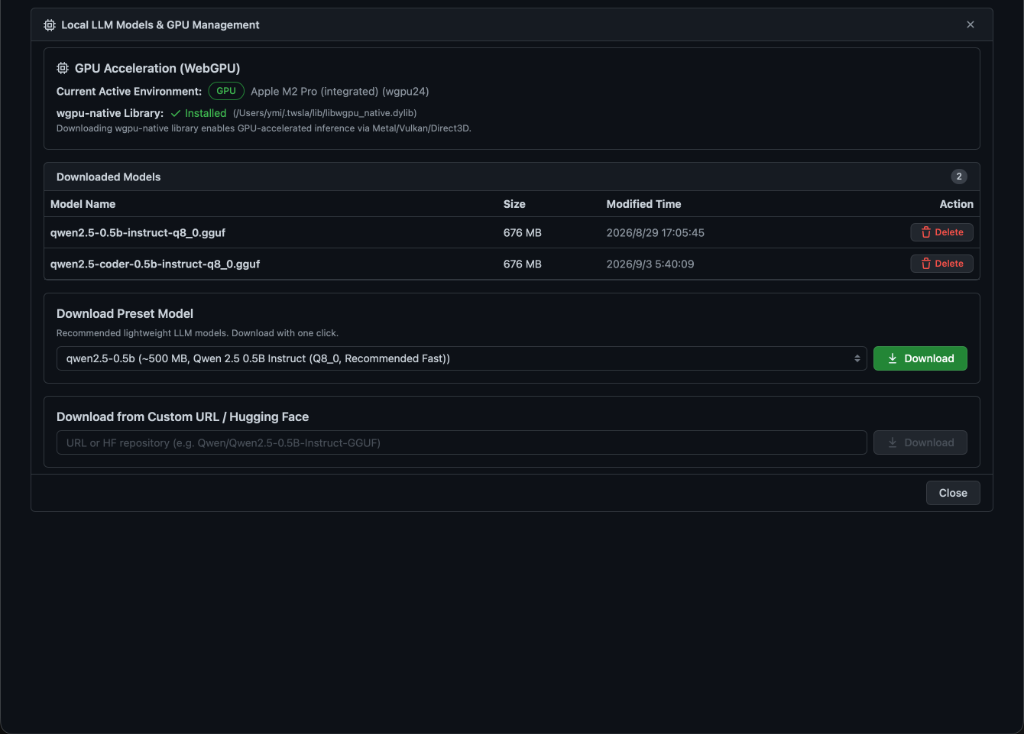
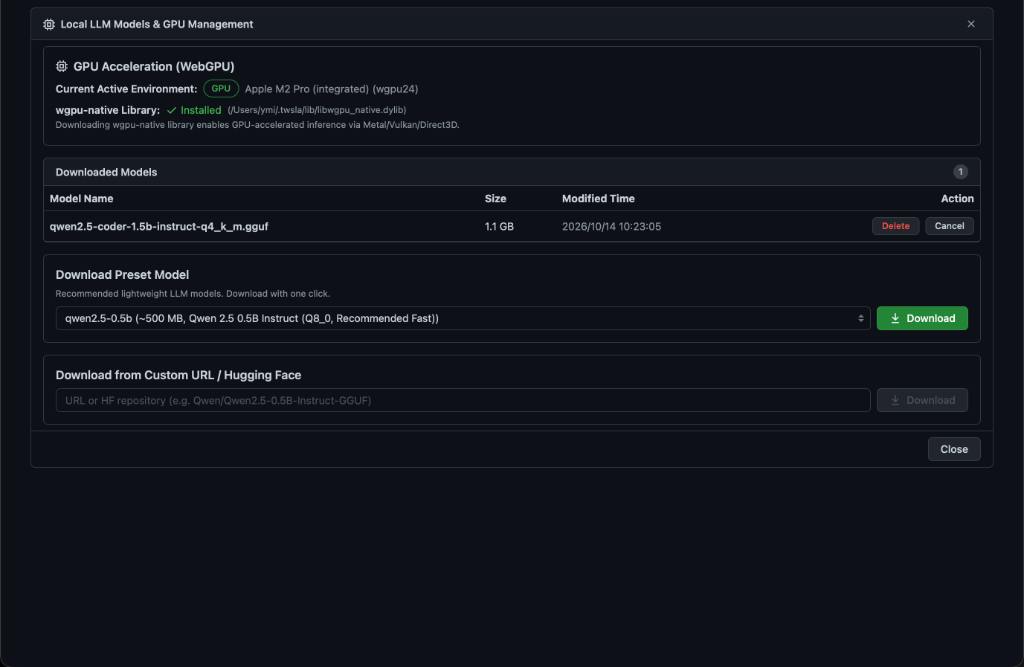
chore(release): bump version to v2.3.0 and update documentation

diff --git a/docs/manual.md b/docs/manual.md
@@ -864,32 +864,39 @@ Webアクセスログなどのレスポンス時間、処理遅延（Delta）、
 
 ログから情報を抽出するために使ったGrokの設定などを定義ファイルに保存するためのものです。編集して他の分析でも使えるようにするための機能です。
 
-### AI (LLM) 連携設定 (v2.1.0 強化)
+### AI (LLM) 連携設定 (v2.1.0 強化、v2.3.0 改善)
 
 ログの解説・要約や問い合わせ（Ask AI）を行うためのLLM連携設定を行います。ログ分析設定画面の右下に配置されています。
 
 - **プロバイダー**:
-  - **tensai（内蔵ローカルLLM）**: 外部サーバーやAPIキーを一切必要とせず、お使いのPC内部で完全に動作する組み込みLLMです。ログデータが外部に送信されないため、機密性の高いログでも安心して分析できます。
+  - **tensai（内蔵ローカルLLM）**: 外部サーバーやAPIキーを一切必要とせず、お使いのPC内部で完全に動作する組み込みLLMです。ログデータが外部に送信されないため、機密性の高いログでも安心して分析できます。(v2.3.0でtensai v0.0.35へ更新され、GGUFトークナイザーの型処理修正により推論がより安定しました)
   - **外部LLM（Ollama, Gemini, OpenAI, Anthropic）**: クラウドアカウントやローカルのOllamaサーバーと連携します。APIキーやモデル名、接続先URLを設定して利用できます。
 - **モデルの選択**:
   内蔵ローカルLLMの場合は、ダウンロード済みのGGUFモデル（例: `qwen2.5-coder-0.5b-instruct-q8_0.gguf` など）をドロップダウンから選択できます。
-- **ハードウェア加速（GPU）**:
-  検出されたGPU環境（Apple MシリーズのMetal、DirectX、Vulkan等のwgpu）がバッジ表示され、高速なハードウェアアクセラレーション推論が行われます。
+- **ハードウェア加速（GPU / SIMD） (v2.3.0 改善)**:
+  検出されたGPU環境（Apple MシリーズのMetal、DirectX、Vulkan等のwgpu）に加えて、arm64環境におけるNEON SIMD最適化の検出状態がバッジ表示され、高速なハードウェアアクセラレーション推論が行われます。
 - **＜モデル管理 / GPU設定＞ボタン**:
   クリックするとモデル管理画面が開き、推奨モデルのワンクリックダウンロードやGPU設定の確認ができます。
 
 ![](./images/ja/ai_setting.png)
 
-#### ローカルLLMモデル & GPU管理画面 (v2.1.0)
+#### ローカルLLMモデル & GPU管理画面 (v2.1.0 追加、v2.3.0 強化)
 
 「モデル管理 / GPU設定」ボタンをクリックすると表示される管理ダイアログです。
 
-- **GPUアクセラレーション (WebGPU)**:
-  現在アクティブなGPU環境（Metal / Vulkan / Direct3D / wgpu）や、`wgpu-native` ライブラリのインストール状態を確認できます。
-- **ダウンロード済みモデル一覧**:
-  PC内に保存されているGGUFモデルのファイル名、ファイルサイズ、更新日時の一覧と削除操作が行えます。
-- **プリセットモデルのワンクリックダウンロード**:
-  TWLogAIANで動作確認済みの推奨軽量LLM（Qwen 2.5 0.5B Instruct等）を選択し、ワンクリックでダウンロードできます。
+- **GPUアクセラレーション (WebGPU / SIMD)**:
+  現在アクティブなGPU環境（Metal / Vulkan / Direct3D / wgpu）や、`wgpu-native` ライブラリのインストール状態、arm64 NEON環境の検出状態を確認できます。
+- **ダウンロード済みモデル一覧 & インライン削除 (v2.3.0 改善)**:
+  PC内に保存されているGGUFモデルのファイル名、ファイルサイズ、更新日時の一覧を確認できます。削除ボタンを押すと「削除」「キャンセル」のインライン確認UIが表示され、不要になったモデルや関連キャッシュを安全かつスムーズに削除できます。
+- **プリセットモデルのワンクリックダウンロード (v2.3.0 大幅拡充)**:
+  TWLogAIANで動作確認済みの推奨LLMを目的やPCスペックに合わせてワンクリックでダウンロードできます。
+  - **Qwen 2.5 / Qwen 2.5 Coder** (0.5B / 1.5B / 3B): 高速・軽量かつコード/ログ解析に優れた定番モデル
+  - **Qwen 3** (4B): 思考プロセス (`<think>`) を備えた推論強化モデル
+  - **LLM-jp 3** (1.8B): 日本語に特化した国産モデル
+  - **Gemma シリーズ** (Gemma 2 2B / Gemma 3 1B / Gemma 4 E2B): Google発の高性能・軽量モデル
+  - **SmolLM シリーズ** (SmolLM2 135M / 360M / 1.7B、SmolLM3 3B): 超軽量から推論モデルまで揃った省リソースモデル
+  - **Phi 3.5 Mini** (3.8B): Microsoftの論理推論に優れた小型モデル
+  - その他 Llama 3.2 1B、DeepSeek R1 Distill Qwen 1.5B など
 - **カスタムURL / Hugging Faceからのダウンロード**:
   Hugging Faceのリポジトリ名や任意のGGUFモデルURLを直接指定してダウンロードすることも可能です。
 

diff --git a/docs/manual_en.md b/docs/manual_en.md
@@ -827,28 +827,35 @@ All of the reports described above can be exported. Access the export menu in th
 Allows you to save Grok patterns and other field extraction settings to definition files, which can then be reused in other analyses.
 
 
-## AI Integration Settings (Enhanced in v2.1.0)
+## AI Integration Settings (Enhanced in v2.1.0, Improved in v2.3.0)
 
 Configure Large Language Models (LLMs) to power log explanations, summaries, and Ask AI queries.
 
-- **Embedded Local LLM (tensai) (v2.1.0)**:
-  An embedded LLM running entirely locally on your computer with zero external server dependencies or API keys. Ensures sensitive log data never leaves your machine.
-  Supports GPU hardware acceleration (Metal / DirectX / Vulkan / CUDA) for high-performance inference. Recommended GGUF models can be downloaded and managed directly via the built-in model manager.
+- **Embedded Local LLM (tensai) (v2.1.0, v2.3.0 Improved)**:
+  An embedded LLM running entirely locally on your computer with zero external server dependencies or API keys. Ensures sensitive log data never leaves your machine. (Upgraded to tensai v0.0.35 in v2.3.0 with fixed GGUF tokenizer type assertions for reliable local inference).
+  Supports GPU hardware acceleration (Metal / DirectX / Vulkan / CUDA) and arm64 NEON SIMD optimizations for high-performance inference.
 - **External LLMs (Ollama, Gemini, OpenAI, Anthropic)**:
   Connect to cloud LLM APIs or local Ollama servers by configuring API keys, model names, and base URLs.
 
 ![](./images/en/ai_setting.png)
 
-### Local LLM Models & GPU Management (v2.1.0)
+### Local LLM Models & GPU Management (v2.1.0, v2.3.0 Expanded)
 
 Clicking the **Model Manager / GPU Setup** button opens the management dialog:
 
-- **GPU Acceleration (WebGPU)**:
-  Displays the currently active GPU backend (Metal / Vulkan / Direct3D / wgpu) and the installation status of the `wgpu-native` library.
-- **Downloaded Models**:
-  Lists locally installed GGUF models with file size, update time, and deletion controls.
-- **Preset Model One-Click Download**:
-  Select from recommended tested lightweight models (such as Qwen 2.5 0.5B Instruct) and download them with a single click.
+- **GPU & SIMD Acceleration (WebGPU / NEON)**:
+  Displays the currently active GPU backend (Metal / Vulkan / Direct3D / wgpu), the installation status of the `wgpu-native` library, and arm64 NEON SIMD detection status.
+- **Downloaded Models & Inline Deletion (v2.3.0 Improved)**:
+  Lists locally installed GGUF models with file size and update time. Deletion now features an inline confirmation UI with automatic model cache cleanup.
+- **Preset Model One-Click Download (v2.3.0 Greatly Expanded)**:
+  Select from a wide variety of recommended, pre-tested models and download them with a single click:
+  - **Qwen 2.5 / Qwen 2.5 Coder** (0.5B / 1.5B / 3B): Fast, lightweight, and optimized for code/log analysis
+  - **Qwen 3** (4B): Advanced reasoning model supporting `<think>` thought processes
+  - **LLM-jp 3** (1.8B): Japanese-focused local model
+  - **Gemma Series** (Gemma 2 2B / Gemma 3 1B / Gemma 4 E2B): High-quality models from Google
+  - **SmolLM Series** (SmolLM2 135M / 360M / 1.7B, SmolLM3 3B): Ultra-compact to reasoning-capable lightweight models
+  - **Phi 3.5 Mini** (3.8B): Microsoft's high-reasoning compact model
+  - As well as Llama 3.2 1B, DeepSeek R1 Distill Qwen 1.5B, etc.
 - **Custom Download**:
   Download any compatible GGUF model directly by specifying a Hugging Face repository ID or direct URL.
 

diff --git a/README.md b/README.md
@@ -52,7 +52,7 @@ Log analysis features:
 - Create chronological notes from selected logs
 - AI-assisted anomaly detection with Machine Learning & Deep Learning (Isolation Forest, LOF, AutoEncoder, LSTM, KNN, Mahalanobis distance, Z-Score)
 - AI explanation and summarization across report views and search results
-- Explain logs and answer questions with embedded local LLM (tensai with GPU acceleration) and external LLMs (Ollama, Gemini, OpenAI, Anthropic)
+- Explain logs and answer questions with embedded local LLM (tensai with GPU / arm64 NEON SIMD acceleration, expanded presets: Qwen2.5/Qwen3/LLM-jp/Gemma/SmolLM/Phi) and external LLMs (Ollama, Gemini, OpenAI, Anthropic) (v2.3.0)
 - Threat detection, MITRE ATT&CK mapping, and compliance auditing powered by Sigma rules (v2.2.0)
 
 Technologies used:
@@ -62,7 +62,7 @@ Technologies used:
 - Svelte 5 / Vite 8: Frontend framework and build tool
 - Bluge: Go full-text search engine
 - Parquet / Badger / Bbolt: High-performance storage engines
-- tensai: Embedded local LLM & neural network inference engine (with GPU acceleration)
+- tensai: Embedded local LLM & neural network inference engine (with GPU & arm64 NEON acceleration)
 - langchaingo: External LLM integration library
 - Sigma / Wazuh rules: Sigma rule evaluation engine & embedded rule packs (Windows/Linux/Web/Network/Compliance)
 - p5.js / p5-svelte: 2D/3D visualizations
@@ -93,6 +93,7 @@ https://twsnmp.github.io/TWLogAIAN/
 - v2.0.0 (2026/6/20) Upgrade to Svelte 5 / Vite 8, custom GrokEditor, LLM integration (RAG removed)
 - v2.1.0 (2026/9/6) Embedded local LLM (tensai/GPU), storage engine options (Parquet/Badger/Bbolt), AI report explanation & summary, deep learning anomaly detection (AutoEncoder/LSTM/KNN), expanded log sources (HTTP/Loki/ES/FTP), email & delay analysis reports
 - v2.2.0 (2026/9/12) Sigma rule threat detection & compliance audit report, external Sigma rules integration, Wazuh rule converter, CLI scanning & evaluation tool (twlogaian sigma)
+- v2.3.0 (2026/10/14) tensai v0.0.35 update, expanded preset local LLM models (Qwen2.5/Qwen3/LLM-jp/Gemma/SmolLM/Phi), arm64 NEON SIMD environment detection, GGUF inference stability improvements, model manager inline deletion UI, dependency security updates
 
 ## Build
 
